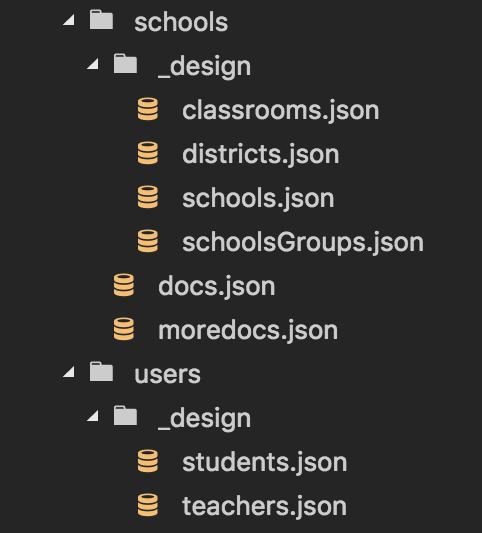
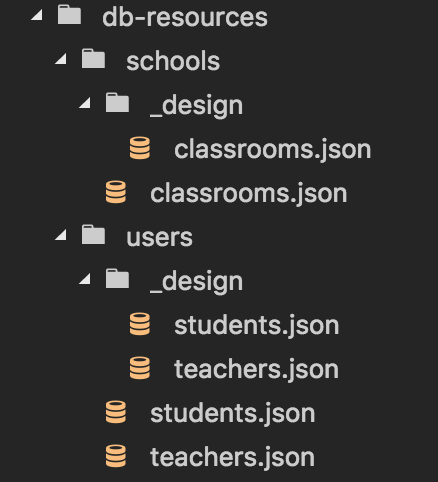
update README

diff --git a/README.md b/README.md
@@ -1,8 +1,12 @@
 #couchinator
 
-Generate (or destroy) cloudant databases using a simple on disk file structure.
+Create and destroy cloudant databases with ease. **couchinator** is great tool for unit testing and more. couchinator is both a library and a command line utility. 
 
-couchinator provides both a module and a cli, thus enabling you to use the generator directly within your app or from the command line.
+You represent your database(s), couchinator takes care of the rest.
+
+See the [Data Layout](#data-layout) section for information on how to represent your database with couchinator.
+![](https://github.com/cdimascio/couchinator/raw/master/assets/data-layout.png)
+
 
 
 ## Install
@@ -13,24 +17,32 @@ Global installation is convenient when using the **CLI**
 
 `npm install couchinator -g`
 
-## Usage
 
-### CLI
+## Use the CLI
 
-create dbs:
 
 ```couchinator.js create --url <YOUR-CLOUDANT-URL> --path <RESOURCE_PATH>```
 
-destroy dbs:
-
 ```couchinator.js destroy --url <YOUR-CLOUDANT-URL> --path <RESOURCE_PATH>```
 
-**Note:** `RESOURCE_PATH` may be absolute or relative to the current working directy
+**Note:** `RESOURCE_PATH` may be absolute path or a path relative to the current working directy
 
-### Module
+
+## Use the Library
+
+#### Basic Usage
 
 ```javascript
-const Generator = require('../lib');
+const Couchinator = require('couchinator');
+new Couchinator('<CLOUDANT-URL>')
+    .resources('db-resources')
+    .create(); // or destroy()
+```
+
+#### Advanced Usage
+
+```javascript
+const Generator = require('couchinator');
 const path = require('path');
 
 // Create a custom progress visitor
@@ -47,67 +59,103 @@ const assetPath = path.join(process.cwd(), 'db-resources')
 
 new Generator(url, progressVisitor)
     .resources(assetPath)
-    .create(); // pass false to ignore all docs, but design docs
+    .create(); // or destroy
 ```
+
+## Behaviors
+Currently, there are two command:
+
+- **`couchinator create`**
+
+    Creates all databases, design documents, and executes any bulk documents represented in the [data layout](#data-layout). If a design document exists, the design document is updated to reflect the version currently represented in the [data layout](#data-layout).
+
+    Using the `--ddocsonly` flag skips any bulk documents. This flag is particulary useful when you simply want to add/update design documents.
+
+- **`couchinator destroy`** 
+
+    destroys all databases represented in the [data layout](#data-layout).
+
+See [CLI Usage](#cli-usage) section for additional arguments.
 
 ## Data Layout
 
-How it works...
+### Getting Started
 
-In in the resource directory (`RESOURCE_PATH`), create a folder for each cloudant db. Each folder's name should be the name of a database to create.
+Represent your database(s) on the file system, then **couchinator** uses this representation to create, update, and destroy your database(s) on demand.
 
-Within each db folder, create a `_design` folder. The `_design` folder should contain a list of json files containing each design document.
+```
+  shools
+    _design
+    	students.json
+		teachers.json
+	students-docs.json
+	teachers-docs.json
+	users 
+    _design
+    	classrooms.json
+	classrooms-docs.json
+```
 
-Also, within each db folder, create a json document to host any documents to add at generation time. This should follow the bulk document format.
+### The Details
 
-**See examples/db-resources to review a sample layout**
+1. Create a folder (`RESOURCE_PATH`) to contain your database representation.
+2. Within this folder, create a folder for each database. We'll refer each of these as a `db_folder`
+    
+    Each `db_folder` name is used as the database name.
 
-To try it, you can run the example:
+3. Within each `db_folder`, *optionally* create a `_design` folder. 
+
+    Within each `_design` folder, create zero or more `.json` files. Each `.json` file *must* contain a *single* [design document](http://docs.couchdb.org/en/2.0.0/json-structure.html#design-document).
+
+    For example, `users/_design/students.json`
+
+    ```
+	{
+	  "_id": "_design/students",
+	  "views": {
+	    "byId": {
+	      "map": "function (doc) {  if (doc.type === 'student') emit(doc._id, doc);}"
+	    }
+	  },
+	  "language": "javascript"
+	}
+	```
+
+4. Within each `db_folder`, *optionally* create zero or more `.json` files. Each `.json` file should contain the documents to be added at creation time. They must be specified using CouchDB [bulk document](http://docs.couchdb.org/en/2.0.0/json-structure.html#bulk-documents) format.
+
+    For example, `users/students-docs.json
+    
+    ```
+	{
+	  "docs": [
+	    {
+	      "_id": "sam895454857",
+	      "name": "Sam C.",
+	      "type": "student"
+	    },
+	    {
+	      "_id": "josie895454856",
+	      "name": "Josie D.",
+	      "type": "student"
+	    }
+	  ]
+	}
+	```
+	
+	**Note** that Documents may reside in a single `.json file` or may span multiple `.json` files for readability. **couchinator** aggregrates documents spanning multiple files into a single bulk request.
+
+
+## Example
+See examples/db-resources.
+
+To run the the example:
 
 - clone this repo
 - `cd examples`
 - edit exmaples.js and set `<CLOUDANT-URL>` to your cloudant url
-- `node example`
-- once complete, the on disk structure will be live in your cloudant database
+- Run `node example`
+- Your database should now contain documents
 
-### Sample layout
-
-See examples/db-resources for a complete exmaple
-
-```
-resource-folder
-  database-1
-    _design
-    	designdoc1-1.json
-    	designdoc1-2.json
-	bulkdocs1-1.json
-	bulkdocs1-2.json
-  database-2
-    _design
-    	designdoc2-1.json
-    	designdoc2-2.json
-	bulkdocs2-1.json
-  ...
-```
-
-You may use any name for files and folders. Two things to note:
-
-1. the name of the database folder becomes the name is the database
-2. the `_design` is a system name and is used to store design docs
-   - If you choose you can add design docs using the bulk format. However, it is not recommended. Design documents are immportant and thus should be managed and versioned independently.
-
-Note that both the `_design` folder and the all `*.json` documents are optional. If your db does not require docs to be created at generation time, you don't need to represented them on disk.
-
-For example, below we represent a db with `database-1` which is empty and db with name `database-2` which contains a single design doc.
-
-```
-resource-folder
-  database-1
-  database-2
-    _design
-    	designdoc1.json
-  ...
-```
 
 ### Design doc representation
 Its a standard cloudant design doc. 
@@ -144,7 +192,7 @@ It's a standard bulk doc e.g. `bulkdocs1-1.json` above
 ```
 
 
-## Module Initialization
+## Library Initialization
 
 var cloudant = Cloudant({account:me, password:password});
 If you would prefer, you can also initialize Cloudant with a URL:
@@ -152,14 +200,14 @@ If you would prefer, you can also initialize Cloudant with a URL:
 #### Cloudant Url
 ```javascript
 const url = "https://MYUSERNAME:MYPASSWORD@MYACCOUNT.cloudant.com"
-new Generator(url)
+new Couchinator(url)
 ```
 
 #### Bluemix
 Running on Bluemix? You can initialize Cloudant directly from the VCAP_SERVICES environment variable:
 
 ```javascript
-new Generator({
+new Couchinator({
   instanceName: 'foo',
   vcapServices: JSON.parse(process.env.VCAP_SERVICES)
 });
@@ -168,7 +216,7 @@ new Generator({
 #### Account
 ```javascript
 const url = "https://MYUSERNAME:MYPASSWORD@MYACCOUNT.cloudant.com"
-new Generator({account:me, password:password})
+new Couchinator({account:me, password:password})
 ```
 
 ## CLI Usage
@@ -177,7 +225,7 @@ Currently, the CLI only support a Cloudant URL.
 
 ```shell
 > couchinator
-  Usage: couchinator [command] [options]
+  Usage: couchinator [options] [command]
 
 
   Commands:
@@ -189,10 +237,10 @@ Currently, the CLI only support a Cloudant URL.
 
     -h, --help        output usage information
     -V, --version     output the version number
-    -u --url <url>    Cloudant database url
-    -p --path <path>  Resource path. Default ./cloudant-database
-    -b --verbose      Verbose logs
-    -d --designonly   Import design docs only. Do no import other docs 
+    -u --url <url>    couchdb url
+    -p --path <path>  resource path. Default ./cloudant-database
+    -b --verbose      verbose logs
+    -d --ddocsonly    import design docs only. Do no import other docs 
 ```    
 
 ## License
